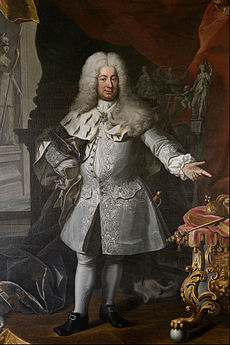
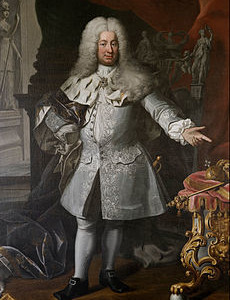
Edited CSS and the images to make them fit better

diff --git a/index.html b/index.html
@@ -31,33 +31,33 @@
         <h2>Some random information.</h2>
         <div class="cardcontainer">
             <div class="infocard">
-                <div>
-                    <img src="Kings/ChristianTyrann.jpg" alt="Christian Tyrann">
-                </div>
+            
+                <img src="Kings/ChristianTyrann.jpg" alt="Christian Tyrann">
+            
                 <p class="subtext">
                     this is some subtext under an illustration or image
                 </p>
             </div>
             <div class="infocard">
-                <div>
-                    <img src="Kings/FredrikI.jpg" alt="Fredrik I">
-                </div>
+            
+                <img src="Kings/FredrikI.jpg" alt="Fredrik I">
+           
                 <p class="subtext">
                     this is some subtext under an illustration or image
                 </p>
             </div>
             <div class="infocard">
-                <div>
-                    <img src="Kings/GustavIVAdolf.jpg" alt="Gustav IV Adolf">
-                </div>
+            
+                <img src="Kings/GustavIVAdolf.jpg" alt="Gustav IV Adolf">
+            
                 <p class="subtext">
                     this is some subtext under an illustration or image
                 </p>
             </div>
             <div class="infocard">
-                <div>
-                    <img src="Kings/KarlIX.jpg" alt="Karl IX">
-                </div>
+            
+                <img src="Kings/KarlIX.jpg" alt="Karl IX">
+
                 <p class="subtext">
                     this is some subtext under an illustration or image
                 </p>

diff --git a/styles.css b/styles.css
@@ -47,10 +47,13 @@ body {
     width: 163px;
 }
 
-.infocard div {
+img {
     height: 160px;
+    width: 160px;
     border: 3px solid #3882F6;
     border-radius: 10%;
+    object-fit: cover;
+    object-position: 0 top;
 }
 
 .infocard p {
